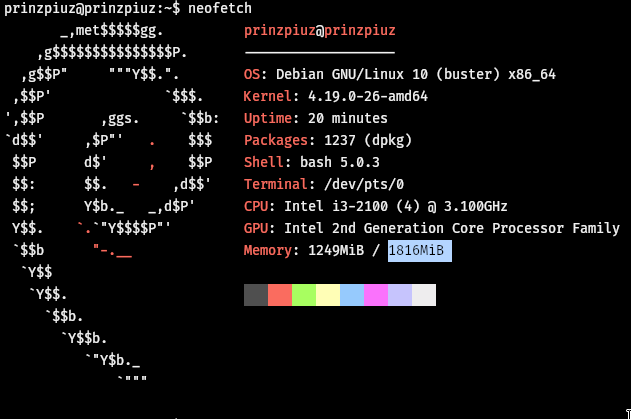
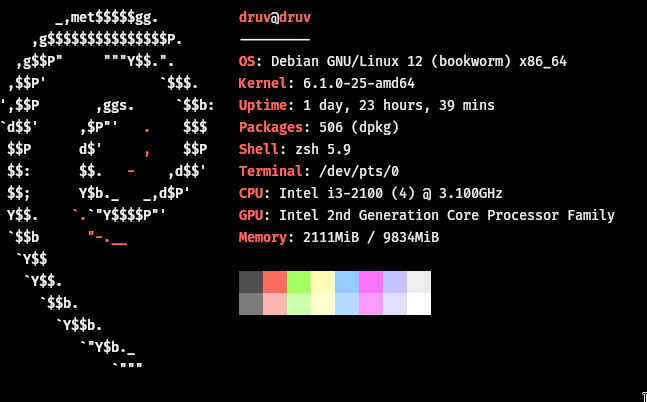
Media Server Upgraded

diff --git a/content/uses/index.md b/content/uses/index.md
@@ -29,9 +29,10 @@ I currently have three powerful machines:
             I am self-hosting some services in it like Jellyfin, Deluge,
             Calibre, Sonarr, Radarr, Jacket ...etc. more about it can be read here
             [Things I Self Hosting](/post/things-i-self-hosting/)  
+            Recently I changed my server setup to a more organized one, Currently I am running every application via docker, this seems pretty easy. [Here](https://github.com/prinzpiuz/Druv-Setup) is the setup repo
   - CPU: Intel i3-2100 (4) @ 3.100GHz
-  - RAM: 2 GB
-  - OS: Debian 10 (buster)
+  - RAM: 10 GB
+  - OS: Debian 12 (bookworm)
   - Storage: 500 GB HDD
   - More [Neofetch Output](/images/uses/media_server_neofetch.png)
 - **My Personal Machine**: This is the first laptop I bought, which helped me a lot during my college days.
@@ -199,6 +200,7 @@ I currently have three powerful machines:
 - [My Dotfiles](https://github.com/prinzpiuz/dotfiles)  
 - [System Setup WIKI](https://github.com/prinzpiuz/dotfiles/wiki/System%E2%80%90configuration)
 - [System Scripts](https://github.com/prinzpiuz/System-Scripts)
+- [Media Server Setup](https://github.com/prinzpiuz/Druv-Setup)
 - {{< simple_more "code_extensions" "**VS Code Extensions I am Using**" >}}
   - Better Comments
   - Codesnap
